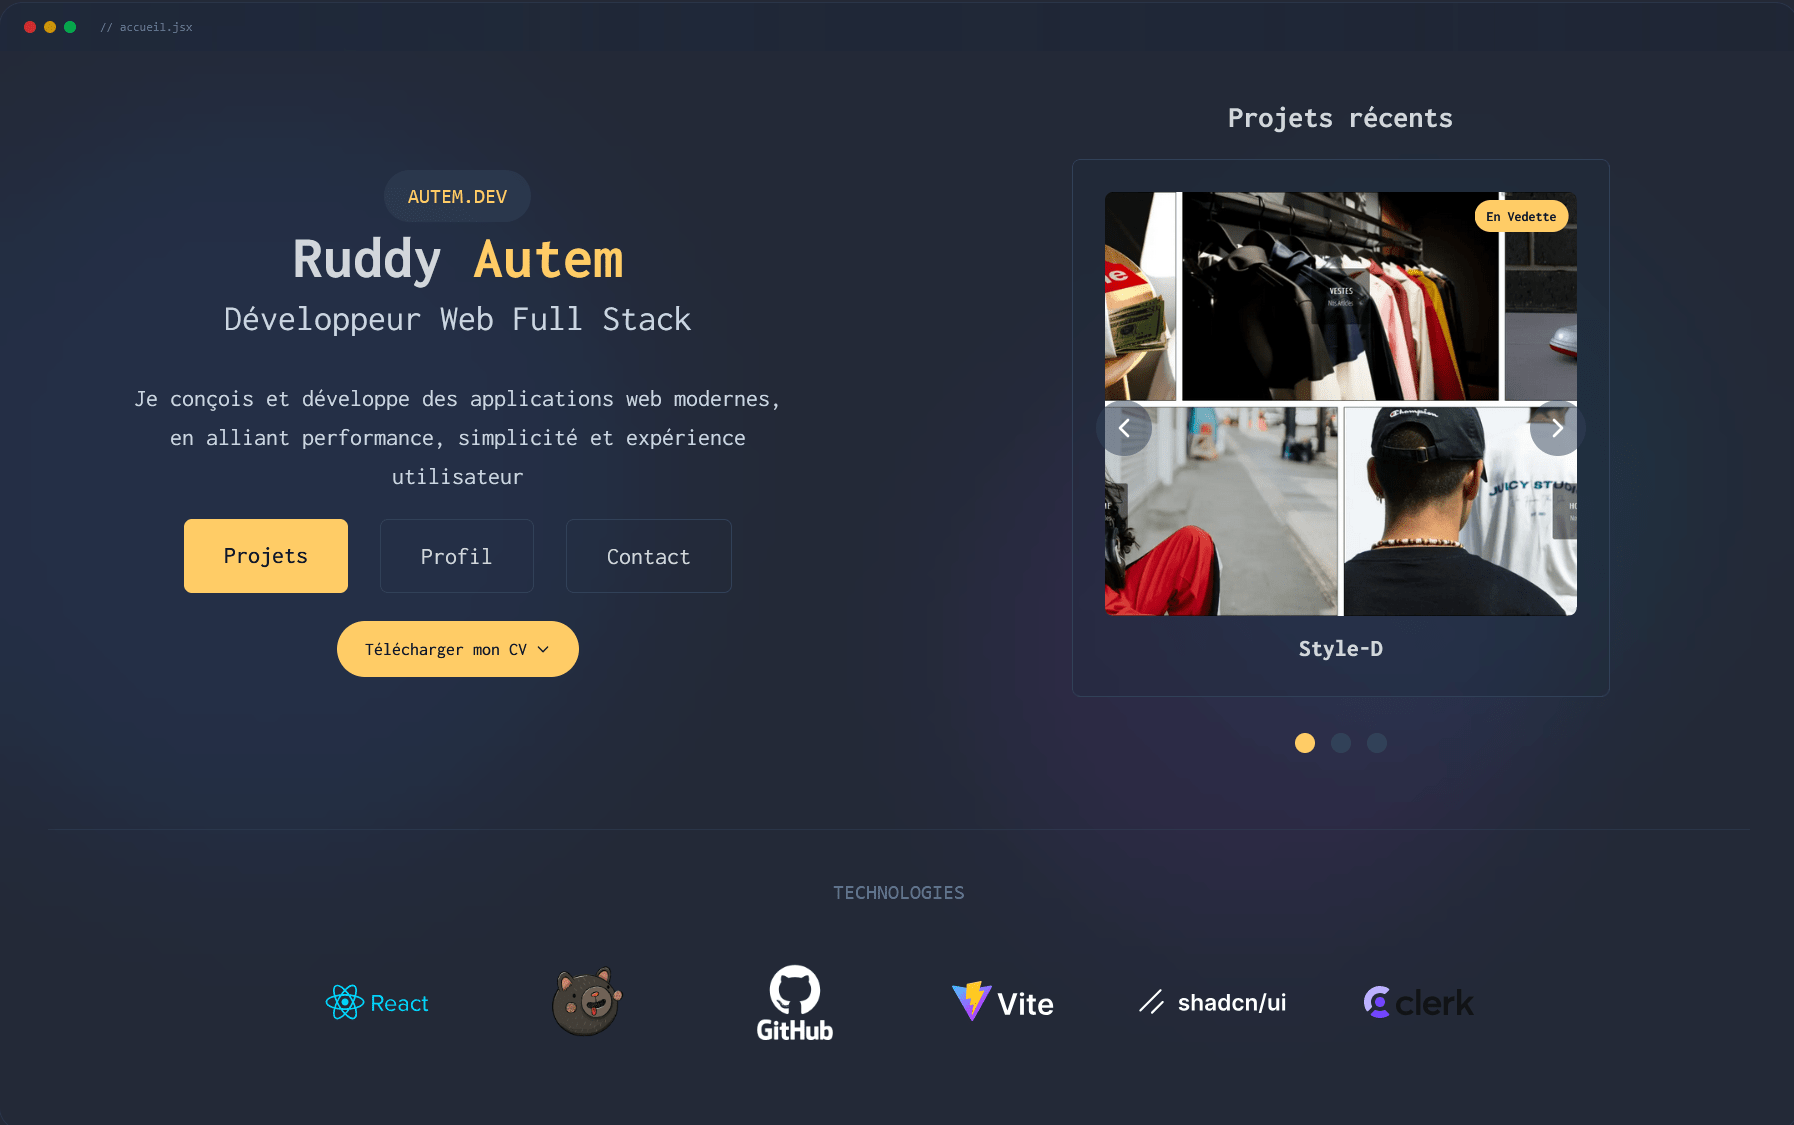
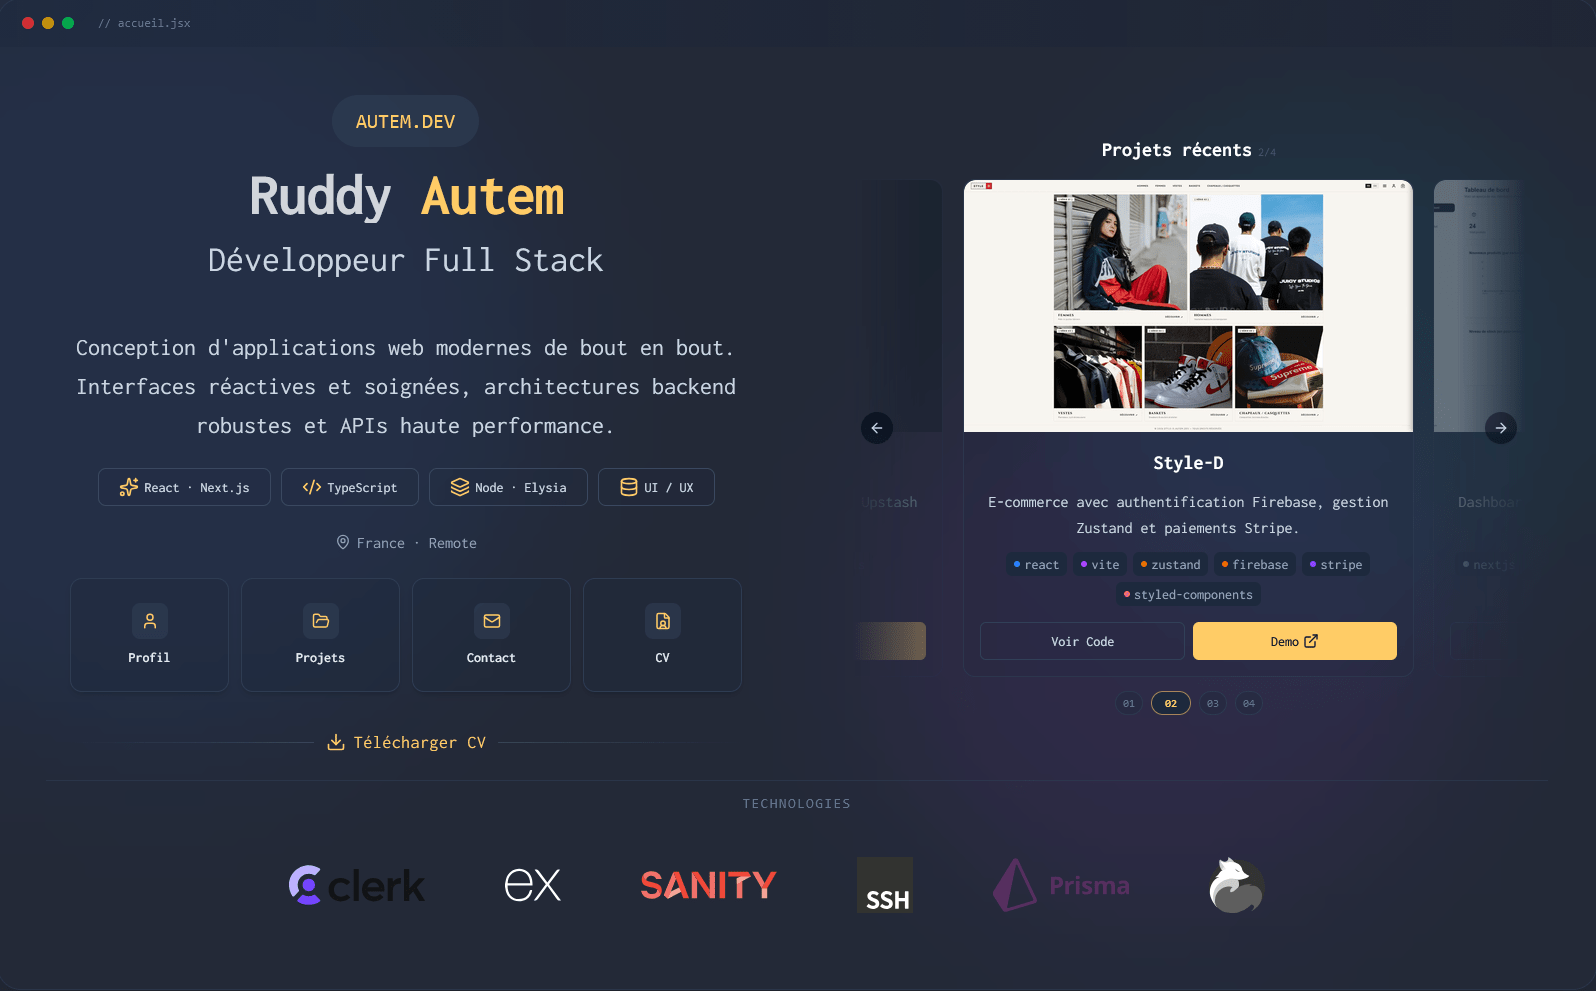
updated projects pictures and some translations, added shortDescs for every projects (for future features)

diff --git a/src/app/[locale]/projects/projects.ts b/src/app/[locale]/projects/projects.ts
@@ -4,7 +4,7 @@ export const getProjects = (t: (key: string) => string) => [
     title: 'Temporis',
     img: '/temporis.png',
     desc: t('temporis.desc'),
-    shortDesc: t('temporis.shortDesc') || t('temporis.desc'),
+    shortDesc: t('temporis.shortDesc'),
     tags: ['nextjs', 'typescript', 'elysia', 'redis', 'tailwindcss', 'zod'],
     source: 'https://github.com/ruddyautem/temporis',
     demo: 'https://temporis.autem.dev',
@@ -12,24 +12,24 @@ export const getProjects = (t: (key: string) => string) => [
   },
   {
     id: 2,
-    title: 'Stokki',
-    img: '/stokki.png',
-    desc: t('stokki.desc'),
-    shortDesc: t('stokki.shortDesc') || t('stokki.desc'),
-    tags: ['nextjs', 'typescript', 'prisma', 'tailwindcss', 'zod'],
-    source: 'https://github.com/ruddyautem/stokki',
-    demo: 'https://stokki.autem.dev',
+    title: 'Style-D',
+    img: '/styled.jpg',
+    desc: t('styled.desc'),
+    shortDesc: t('styled.shortDesc'),
+    tags: ['react', 'vite', 'zustand', 'firebase', 'stripe', 'styled-components'],
+    source: 'https://github.com/ruddyautem/style-D/',
+    demo: 'https://style-d.autem.dev',
     featured: true,
   },
   {
     id: 3,
-    title: 'DressCode',
-    img: '/dresscode.png',
-    desc: t('dresscode.desc'),
-    shortDesc: t('dresscode.shortDesc') || t('dresscode.desc'),
-    tags: ['nextjs', 'typescript', 'sanity', 'clerk', 'stripe', 'zustand', 'zod', 'shadcn'],
-    source: 'https://github.com/ruddyautem/DressCode',
-    demo: 'https://dresscode.autem.dev',
+    title: 'Stokki',
+    img: '/stokki.png',
+    desc: t('stokki.desc'),
+    shortDesc: t('stokki.shortDesc'),
+    tags: ['nextjs', 'typescript', 'prisma', 'tailwindcss', 'zod'],
+    source: 'https://github.com/ruddyautem/stokki',
+    demo: 'https://stokki.autem.dev',
     featured: true,
   },
   {
@@ -37,7 +37,7 @@ export const getProjects = (t: (key: string) => string) => [
     title: 'Portfolio',
     img: '/portfolio.png',
     desc: t('portfolio.desc'),
-    shortDesc: t('portfolio.shortDesc') || t('portfolio.desc'),
+    shortDesc: t('portfolio.shortDesc'),
     tags: ['nextjs', 'typescript', 'tailwindcss', 'react'],
     source: 'https://github.com/ruddyautem/Portfolio',
     demo: 'https://autem.dev',
@@ -45,22 +45,24 @@ export const getProjects = (t: (key: string) => string) => [
   },
   {
     id: 5,
-    title: 'Style-D',
-    img: '/styled.png',
-    desc: t('styled.desc'),
-    tags: ['react', 'vite', 'zustand', 'firebase', 'stripe', 'styled-components'],
-    source: 'https://github.com/ruddyautem/style-D/',
-    demo: 'https://style-d.autem.dev',
+    title: 'OhMyBlog!',
+    img: '/ohmyblog.png',
+    desc: t('ohmyblog.desc'),
+    shortDesc: t('ohmyblog.shortDesc'),
+    tags: ['nextjs', 'typescript', 'tailwindcss', 'drizzle', 'clerk', 'zod'],
+    source: 'https://github.com/ruddyautem/ohmyblog/',
+    demo: 'https://ohmyblog.autem.dev',
     featured: false,
   },
   {
     id: 6,
-    title: 'OhMyBlog!',
-    img: '/ohmyblog.png',
-    desc: t('ohmyblog.desc'),
-    tags: ['nextjs', 'typescript', 'tailwindcss', 'drizzle', 'clerk', 'zod'],
-    source: 'https://github.com/ruddyautem/ohmyblog/',
-    demo: 'https://ohmyblog.autem.dev',
+    title: 'DressCode',
+    img: '/dresscode.png',
+    desc: t('dresscode.desc'),
+    shortDesc: t('dresscode.shortDesc'),
+    tags: ['nextjs', 'typescript', 'sanity', 'clerk', 'stripe', 'zustand', 'zod', 'shadcn'],
+    source: 'https://github.com/ruddyautem/DressCode',
+    demo: 'https://dresscode.autem.dev',
     featured: false,
   },
   {
@@ -68,6 +70,7 @@ export const getProjects = (t: (key: string) => string) => [
     title: 'Mytasky',
     img: '/mytasky.png',
     desc: t('mytasky.desc'),
+    shortDesc: t('mytasky.shortDesc'),
     tags: ['nextjs', 'typescript', 'tailwindcss', 'react'],
     source: 'https://github.com/ruddyautem/mytasky',
     demo: 'https://mytasky.autem.dev',
@@ -78,6 +81,7 @@ export const getProjects = (t: (key: string) => string) => [
     title: 'Laxxy',
     img: '/laxxy.png',
     desc: t('laxxy.desc'),
+    shortDesc: t('laxxy.shortDesc'),
     tags: ['react', 'vite', 'redux', 'firebase', 'material-ui', 'styled-components'],
     source: 'https://github.com/ruddyautem/laxxy',
     demo: 'https://laxxy.autem.dev',
@@ -88,6 +92,7 @@ export const getProjects = (t: (key: string) => string) => [
     title: 'CoolMail',
     img: '/coolmail.png',
     desc: t('coolmail.desc'),
+    shortDesc: t('coolmail.shortDesc'),
     tags: ['react', 'vite', 'redux', 'firebase', 'material-ui'],
     source: 'https://github.com/ruddyautem/CoolMail',
     demo: 'https://coolmail.autem.dev',
@@ -98,6 +103,7 @@ export const getProjects = (t: (key: string) => string) => [
     title: 'GPT-3',
     img: '/gpt3.jpg',
     desc: t('gpt3.desc'),
+    shortDesc: t('gpt3.shortDesc'),
     tags: ['react'],
     source: 'https://github.com/ruddyautem/gpt3',
     demo: 'https://gpt3.autem.dev',
